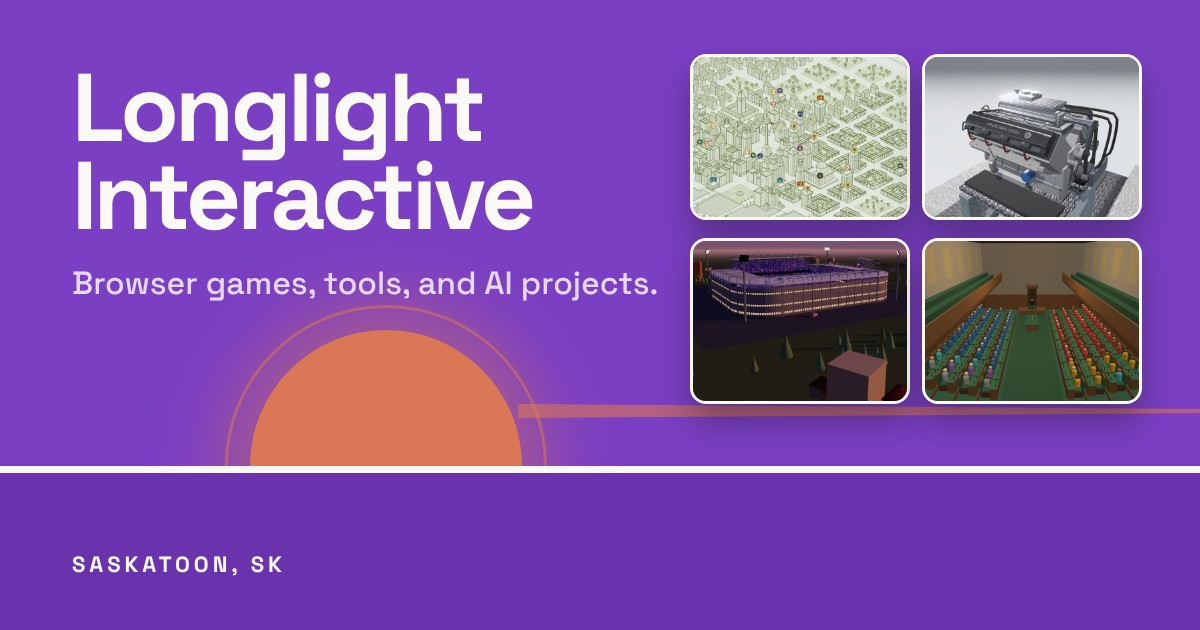
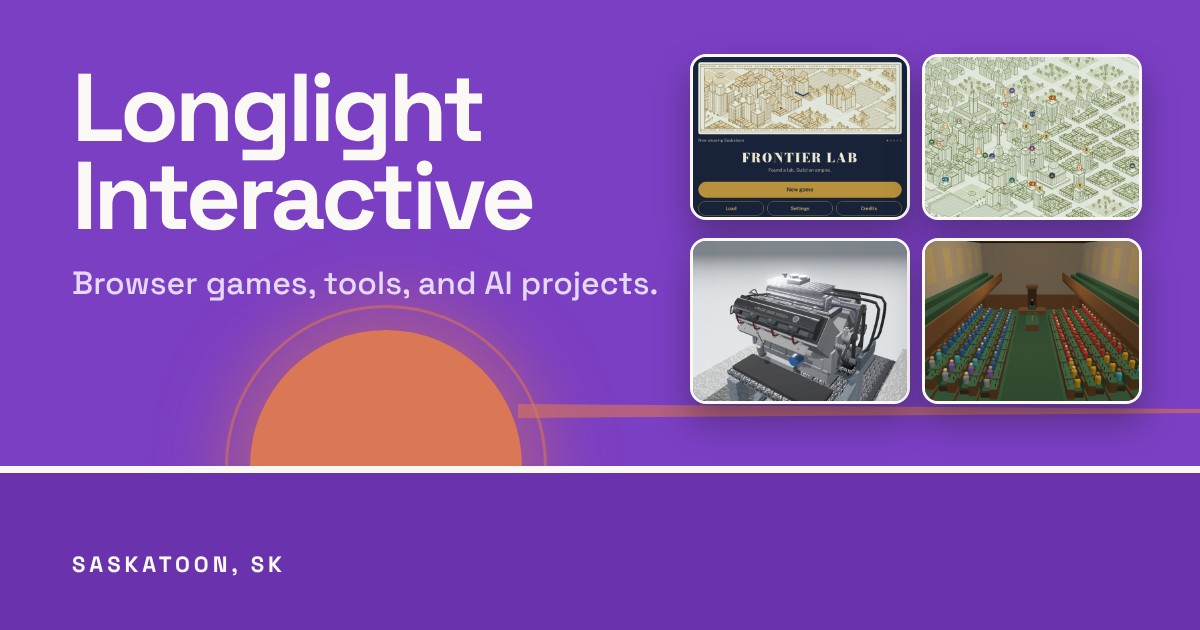
Link preview: Frontier Lab in the cover grid (#136)
* Games: add Frontier Lab at #1

Claude-Session: https://claude.ai/code/session_016QaTkMKy8nw5ihBrZfYzcJ

* Link preview: new picture with Frontier Lab in the cover grid (?v=17)

Claude-Session: https://claude.ai/code/session_016QaTkMKy8nw5ihBrZfYzcJ

---------

Changed region(s): [[0.555, 0.0905, 0.9558, 0.6635]]

diff --git a/tools/prediction-tracker/index.html b/tools/prediction-tracker/index.html
@@ -14,7 +14,7 @@
   <meta property="og:title" content="Prediction Tracker · Longlight Interactive">
   <meta property="og:description" content="Log predictions with how sure you are, grade them later, and see how well-calibrated your calls really are. Everything stays on your own device.">
   <meta property="og:url" content="https://jxstrr0.github.io/Kelbo.Website/tools/prediction-tracker/">
-  <meta property="og:image" content="https://jxstrr0.github.io/Kelbo.Website/assets/social-preview.jpg?v=16">
+  <meta property="og:image" content="https://jxstrr0.github.io/Kelbo.Website/assets/social-preview.jpg?v=17">
   <meta property="og:image:width" content="1200">
   <meta property="og:image:height" content="630">
   <meta property="og:image:alt" content="The Longlight Interactive sun over a purple horizon, beside screenshots of four of its games.">

diff --git a/press.html b/press.html
@@ -14,7 +14,7 @@
   <meta property="og:title" content="Press kit · Longlight Interactive">
   <meta property="og:description" content="Logos, game covers, screenshots and the facts about Longlight Interactive and its browser games, ready for articles, videos and streams.">
   <meta property="og:url" content="https://jxstrr0.github.io/Kelbo.Website/press.html">
-  <meta property="og:image" content="https://jxstrr0.github.io/Kelbo.Website/assets/social-preview.jpg?v=16">
+  <meta property="og:image" content="https://jxstrr0.github.io/Kelbo.Website/assets/social-preview.jpg?v=17">
   <meta property="og:image:width" content="1200">
   <meta property="og:image:height" content="630">
   <meta property="og:image:alt" content="The Longlight Interactive sun over a purple horizon, beside screenshots of four of its games.">

diff --git a/agent-fleet.html b/agent-fleet.html
@@ -14,7 +14,7 @@
   <meta property="og:title" content="Agent Fleet · Longlight Interactive">
   <meta property="og:description" content="A growing set of small, single-purpose bots I can run from my phone, like news digests, trackers, and weekly scans.">
   <meta property="og:url" content="https://jxstrr0.github.io/Kelbo.Website/agent-fleet.html">
-  <meta property="og:image" content="https://jxstrr0.github.io/Kelbo.Website/assets/social-preview.jpg?v=16">
+  <meta property="og:image" content="https://jxstrr0.github.io/Kelbo.Website/assets/social-preview.jpg?v=17">
   <meta property="og:image:width" content="1200">
   <meta property="og:image:height" content="630">
   <meta property="og:image:alt" content="The Longlight Interactive sun over a purple horizon, beside screenshots of four of its games.">

diff --git a/journal.html b/journal.html
@@ -14,7 +14,7 @@
   <meta property="og:title" content="AI Trading Journal · Longlight Interactive">
   <meta property="og:description" content="Kelbo's trading journal: his market views, his trades, and his running record, with notes from an AI coach.">
   <meta property="og:url" content="https://jxstrr0.github.io/Kelbo.Website/journal.html">
-  <meta property="og:image" content="https://jxstrr0.github.io/Kelbo.Website/assets/social-preview.jpg?v=16">
+  <meta property="og:image" content="https://jxstrr0.github.io/Kelbo.Website/assets/social-preview.jpg?v=17">
   <meta property="og:image:width" content="1200">
   <meta property="og:image:height" content="630">
   <meta property="og:image:alt" content="The Longlight Interactive sun over a purple horizon, beside screenshots of four of its games.">

diff --git a/game.html b/game.html
@@ -14,7 +14,7 @@
   <meta property="og:title" content="Game · Longlight Interactive">
   <meta property="og:description" content="A Longlight Interactive browser game: what it is, how far along it is, screenshots, and where to play it.">
   <meta property="og:url" content="https://jxstrr0.github.io/Kelbo.Website/game.html">
-  <meta property="og:image" content="https://jxstrr0.github.io/Kelbo.Website/assets/social-preview.jpg?v=16">
+  <meta property="og:image" content="https://jxstrr0.github.io/Kelbo.Website/assets/social-preview.jpg?v=17">
   <meta property="og:image:width" content="1200">
   <meta property="og:image:height" content="630">
   <meta property="og:image:alt" content="The Longlight Interactive sun over a purple horizon, beside screenshots of four of its games.">

diff --git a/games.html b/games.html
@@ -14,7 +14,7 @@
   <meta property="og:title" content="Games · Longlight Interactive">
   <meta property="og:description" content="Browser games from Longlight Interactive. Play them on your phone or computer, or look at the code.">
   <meta property="og:url" content="https://jxstrr0.github.io/Kelbo.Website/games.html">
-  <meta property="og:image" content="https://jxstrr0.github.io/Kelbo.Website/assets/social-preview.jpg?v=16">
+  <meta property="og:image" content="https://jxstrr0.github.io/Kelbo.Website/assets/social-preview.jpg?v=17">
   <meta property="og:image:width" content="1200">
   <meta property="og:image:height" content="630">
   <meta property="og:image:alt" content="The Longlight Interactive sun over a purple horizon, beside screenshots of four of its games.">

diff --git a/devlog.html b/devlog.html
@@ -14,7 +14,7 @@
   <meta property="og:title" content="Devlog · Longlight Interactive">
   <meta property="og:description" content="News from Longlight Interactive: new games, big updates and what we're working on, newest first.">
   <meta property="og:url" content="https://jxstrr0.github.io/Kelbo.Website/devlog.html">
-  <meta property="og:image" content="https://jxstrr0.github.io/Kelbo.Website/assets/social-preview.jpg?v=16">
+  <meta property="og:image" content="https://jxstrr0.github.io/Kelbo.Website/assets/social-preview.jpg?v=17">
   <meta property="og:image:width" content="1200">
   <meta property="og:image:height" content="630">
   <meta property="og:image:alt" content="The Longlight Interactive sun over a purple horizon, beside screenshots of four of its games.">

diff --git a/projects.html b/projects.html
@@ -14,7 +14,7 @@
   <meta property="og:title" content="Projects · Longlight Interactive">
   <meta property="og:description" content="Games, tools, and AI projects from Longlight Interactive, from planned to shipped.">
   <meta property="og:url" content="https://jxstrr0.github.io/Kelbo.Website/projects.html">
-  <meta property="og:image" content="https://jxstrr0.github.io/Kelbo.Website/assets/social-preview.jpg?v=16">
+  <meta property="og:image" content="https://jxstrr0.github.io/Kelbo.Website/assets/social-preview.jpg?v=17">
   <meta property="og:image:width" content="1200">
   <meta property="og:image:height" content="630">
   <meta property="og:image:alt" content="The Longlight Interactive sun over a purple horizon, beside screenshots of four of its games.">

diff --git a/about.html b/about.html
@@ -14,7 +14,7 @@
   <meta property="og:title" content="About · Longlight Interactive">
   <meta property="og:description" content="About Kelbo, the person behind Longlight Interactive, based in Saskatoon, Saskatchewan.">
   <meta property="og:url" content="https://jxstrr0.github.io/Kelbo.Website/about.html">
-  <meta property="og:image" content="https://jxstrr0.github.io/Kelbo.Website/assets/social-preview.jpg?v=16">
+  <meta property="og:image" content="https://jxstrr0.github.io/Kelbo.Website/assets/social-preview.jpg?v=17">
   <meta property="og:image:width" content="1200">
   <meta property="og:image:height" content="630">
   <meta property="og:image:alt" content="The Longlight Interactive sun over a purple horizon, beside screenshots of four of its games.">

diff --git a/whats-new.html b/whats-new.html
@@ -14,7 +14,7 @@
   <meta property="og:title" content="What's new · Longlight Interactive">
   <meta property="og:description" content="The newest version and latest change for every Longlight Interactive project.">
   <meta property="og:url" content="https://jxstrr0.github.io/Kelbo.Website/whats-new.html">
-  <meta property="og:image" content="https://jxstrr0.github.io/Kelbo.Website/assets/social-preview.jpg?v=16">
+  <meta property="og:image" content="https://jxstrr0.github.io/Kelbo.Website/assets/social-preview.jpg?v=17">
   <meta property="og:image:width" content="1200">
   <meta property="og:image:height" content="630">
   <meta property="og:image:alt" content="The Longlight Interactive sun over a purple horizon, beside screenshots of four of its games.">

diff --git a/trading.html b/trading.html
@@ -14,7 +14,7 @@
   <meta property="og:title" content="Trading · Longlight Interactive">
   <meta property="og:description" content="Kelbo's trading journal and the tools he builds for his own trading day.">
   <meta property="og:url" content="https://jxstrr0.github.io/Kelbo.Website/trading.html">
-  <meta property="og:image" content="https://jxstrr0.github.io/Kelbo.Website/assets/social-preview.jpg?v=16">
+  <meta property="og:image" content="https://jxstrr0.github.io/Kelbo.Website/assets/social-preview.jpg?v=17">
   <meta property="og:image:width" content="1200">
   <meta property="og:image:height" content="630">
   <meta property="og:image:alt" content="The Longlight Interactive sun over a purple horizon, beside screenshots of four of its games.">

diff --git a/index.html b/index.html
@@ -14,7 +14,7 @@
   <meta property="og:title" content="Longlight Interactive">
   <meta property="og:description" content="Longlight Interactive makes browser games, tools, and AI projects in Saskatoon, Saskatchewan.">
   <meta property="og:url" content="https://jxstrr0.github.io/Kelbo.Website/">
-  <meta property="og:image" content="https://jxstrr0.github.io/Kelbo.Website/assets/social-preview.jpg?v=16">
+  <meta property="og:image" content="https://jxstrr0.github.io/Kelbo.Website/assets/social-preview.jpg?v=17">
   <meta property="og:image:width" content="1200">
   <meta property="og:image:height" content="630">
   <meta property="og:image:alt" content="The Longlight Interactive sun over a purple horizon, beside screenshots of four of its games.">
